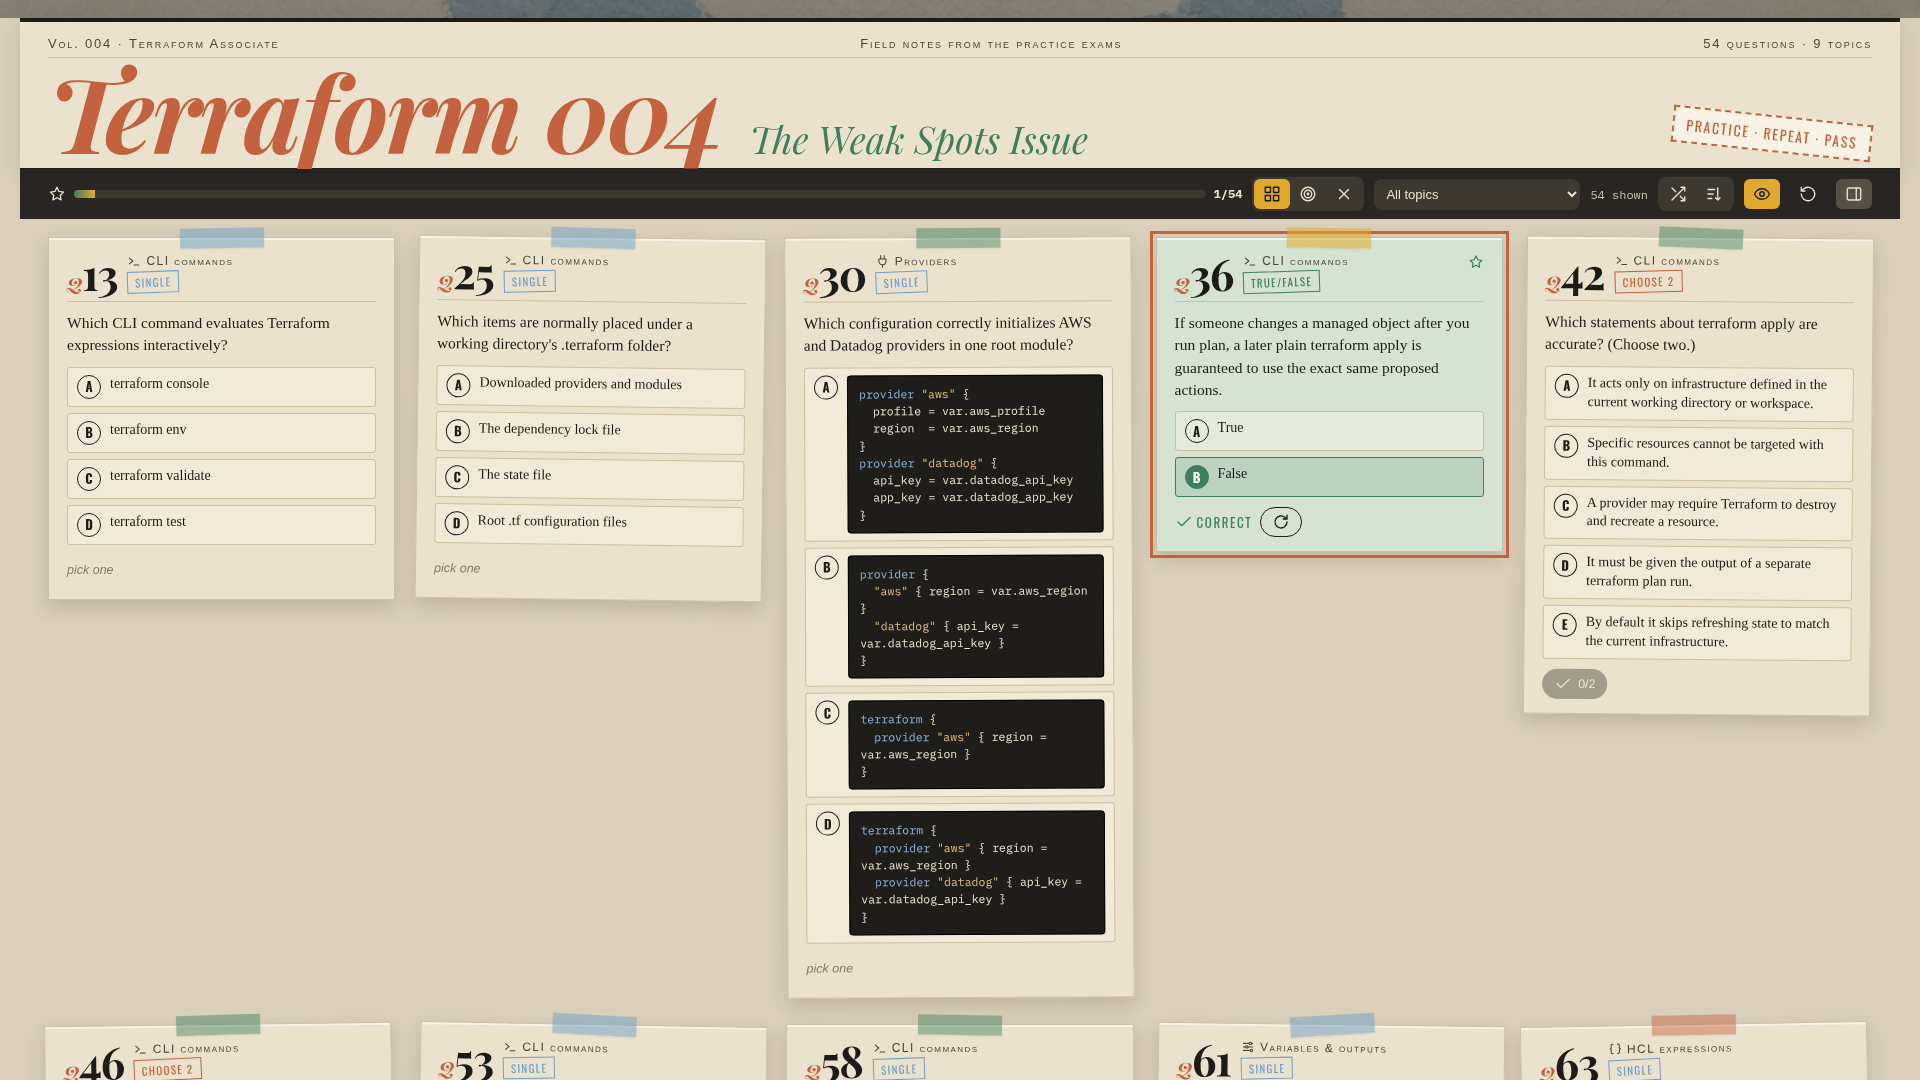
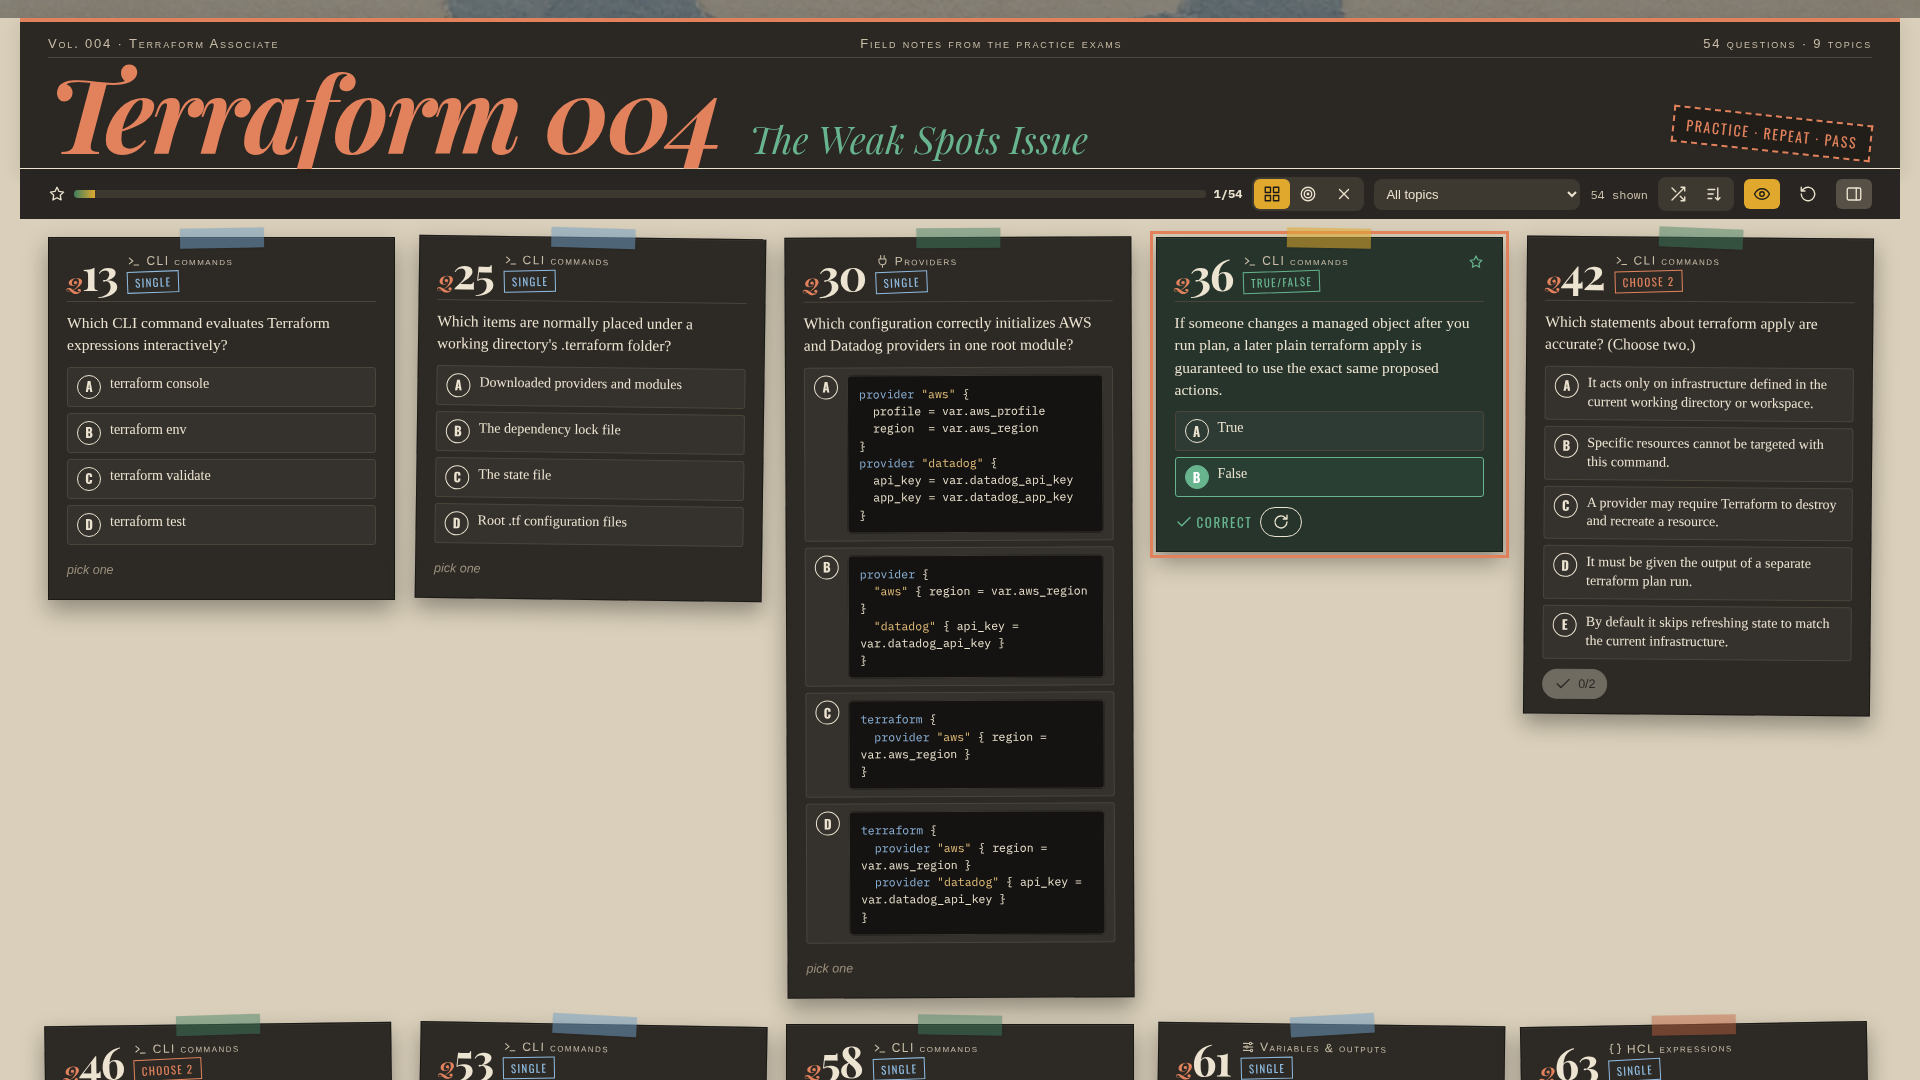
Switch cards and panel to a dark theme

diff --git a/weak-questions/index.html b/weak-questions/index.html
@@ -132,6 +132,22 @@ pre.code.ex{border-left:4px solid var(--mustard)}
   .bar{padding:8px 12px}
   .grid{grid-template-columns:minmax(0,1fr);gap:22px}
 }
+
+/* dark cards theme */
+.mast,.card,.panel,.empty,.ph{--ink:#ece3d0;--ink2:#c9bea8;--muted:#9a8f7c;--rule:#4a443b;--paper:#24211d;--terra:#e2825d;--jade:#68b48e;--sky:#8fbbe0;--mustard:#e8b84a;color:var(--ink)}
+.mast{background:rgba(32,29,25,.94);border-top-color:var(--terra)}
+.mast .stamp{background:rgba(32,29,25,.85)}
+.card{background:rgba(36,33,29,.95);border-color:rgba(0,0,0,.4);box-shadow:0 1px 0 rgba(255,255,255,.05) inset,0 10px 22px rgba(0,0,0,.35)}
+.card.mastered{background:rgba(30,46,38,.96)}
+.opt{background:rgba(255,255,255,.04)}
+.opt:hover{background:rgba(255,255,255,.08)}
+.panel{background:rgba(30,27,24,.98);box-shadow:0 10px 28px rgba(0,0,0,.45)}
+.ph{background:#24211d}
+.ph .tools .ib:hover{background:#3a352e}
+pre.code{background:#151311;box-shadow:inset 0 0 0 1px #3a352e}
+.chip{color:#a9cdee}
+.empty{background:rgba(36,33,29,.95)}
+@media (max-width:900px){.panel{background:#1e1b18}}
 </style>
 </head>
 <body>
